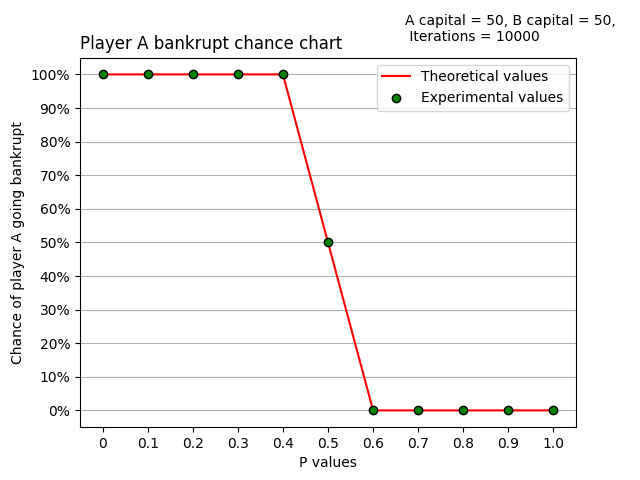
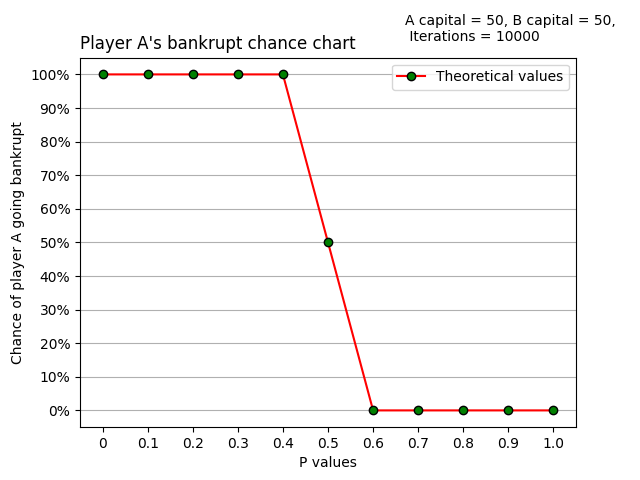
Classes 1 exB plot dots update

Changed region(s): [[0.5938, 0.125, 0.9062, 0.25], [0.2188, 0.0625, 0.5625, 0.125]]

diff --git a/statistics/classes_1/exB/exB.py b/statistics/classes_1/exB/exB.py
@@ -126,17 +126,17 @@ def show_graph(iterations: int, a_capital: int, b_capital: int) -> None:
 
     # draw graph
     y_pos = range(len(experimental_list))
-    plt.scatter(y_pos, experimental_list, color='green', edgecolor='black', label=f'Experimental values', zorder=3)
-    plt.plot(theory_list, color='red', label=f'Theoretical values', zorder=2)
+    plt.plot(theory_list, color='red', label=f'Theoretical values', marker='o', markerfacecolor='green',
+             markeredgecolor='black')
     plt.xticks(y_pos, p_values)
     plt.grid(axis='y')
-    plt.yticks([i/10 for i in range(0, 11)], [f'{i}%' for i in range(0, 101, 10)])
+    plt.yticks([i / 10 for i in range(0, 11)], [f'{i}%' for i in range(0, 101, 10)])
     plt.ylabel("Chance of player A going bankrupt")
     plt.xlabel("P values")
     plt.title("Player A's bankrupt chance chart", loc='left')
     plt.text(6.7, 1.1, f'A capital = {a_capital}, B capital = {b_capital},\n Iterations = {iterations}')
     plt.legend()
-    # plt.savefig('example1.png')
+    plt.savefig('example1.png')
     plt.show()
 
 
